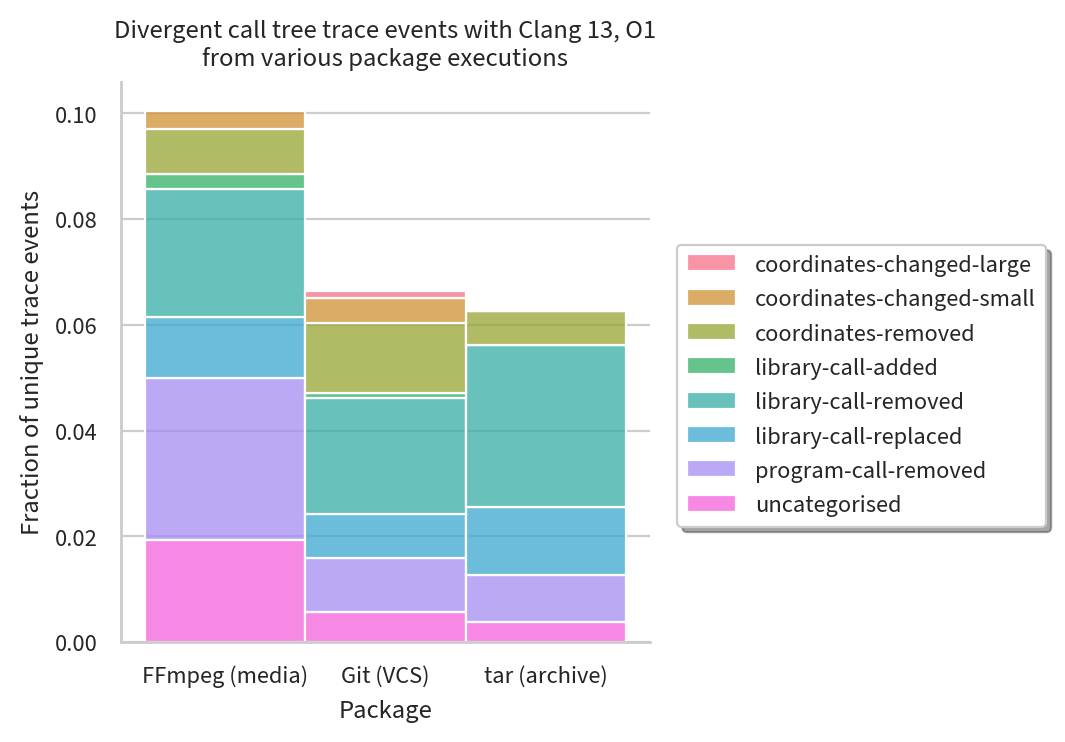
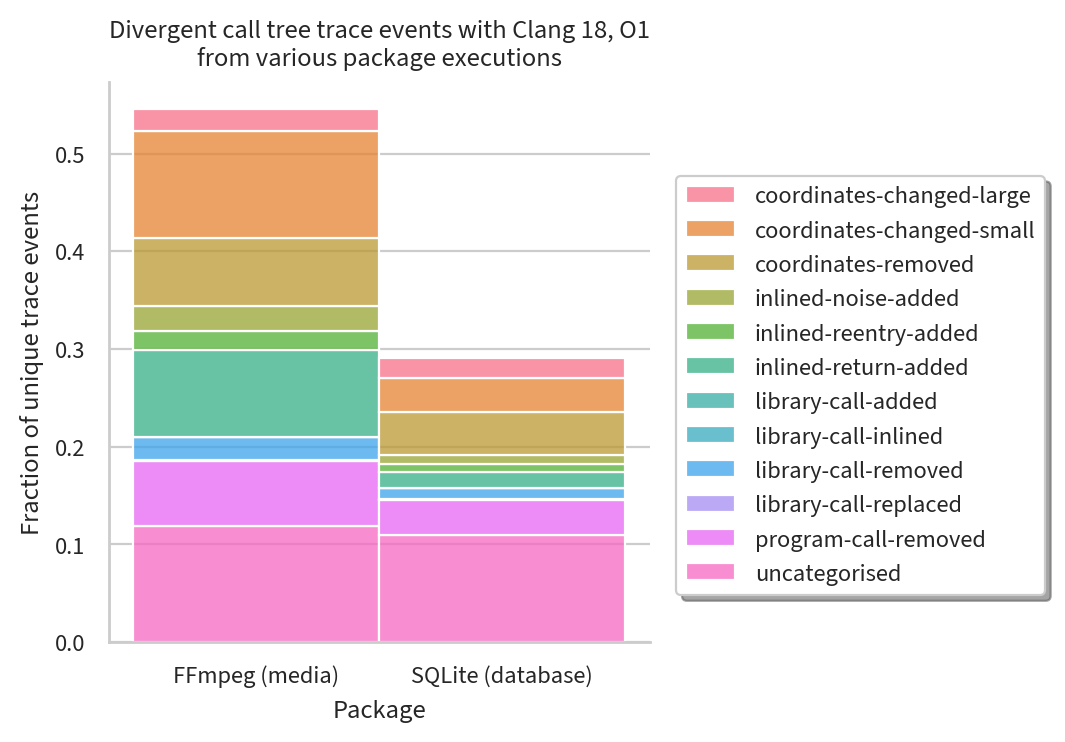
Revise packages figure, temporarily without Git

diff --git a/data/consistency-concrete/shared/summary_plots.py b/data/consistency-concrete/shared/summary_plots.py
@@ -19,7 +19,7 @@ def load_data(target_name, data_path_prefix):
 
   def read_run(dir, variant):
     df = None
-    for count_file in glob.iglob(f"{data_path_prefix}/program-no-inline/{dir}/divergences/summary/default/counts/*"):
+    for count_file in glob.iglob(f"{data_path_prefix}/program/{dir}/divergences/default/counts/*"):
       df_segment = read_file(count_file)
       df_divergence_type = os.path.basename(count_file)
       df_segment["Divergence Type"] = df_divergence_type
@@ -28,9 +28,9 @@ def load_data(target_name, data_path_prefix):
     df.variant = variant
     dfs.append(df)
 
-  read_run("clang/13/O1", ("Clang", "13", "O1"))
+  # read_run("clang/13/O1", ("Clang", "13", "O1"))
   # read_run("clang/13/O2", ("Clang", "13", "O2"))
-  # read_run("clang/18/O1", ("Clang", "18", "O1"))
+  read_run("clang/18/O1", ("Clang", "18", "O1"))
   # read_run("gcc/11/O1", ("GCC", "11", "O1"))
   # # Lots of "no info for this address", skipping for now
   # # read_run("gcc/11/O2", ("GCC", "11", "O2"))
@@ -84,7 +84,7 @@ def divergences_by_package(df):
   # for tick in ax.xaxis.get_major_ticks()[1::2]:
   #   tick.set_pad(12)
   g.set(
-    title="Divergent call tree trace events with Clang 13, O1\nfrom various package executions",
+    title="Divergent call tree trace events with Clang 18, O1\nfrom various package executions",
     xlabel="Package",
     ylabel="Fraction of unique trace events",
   )
